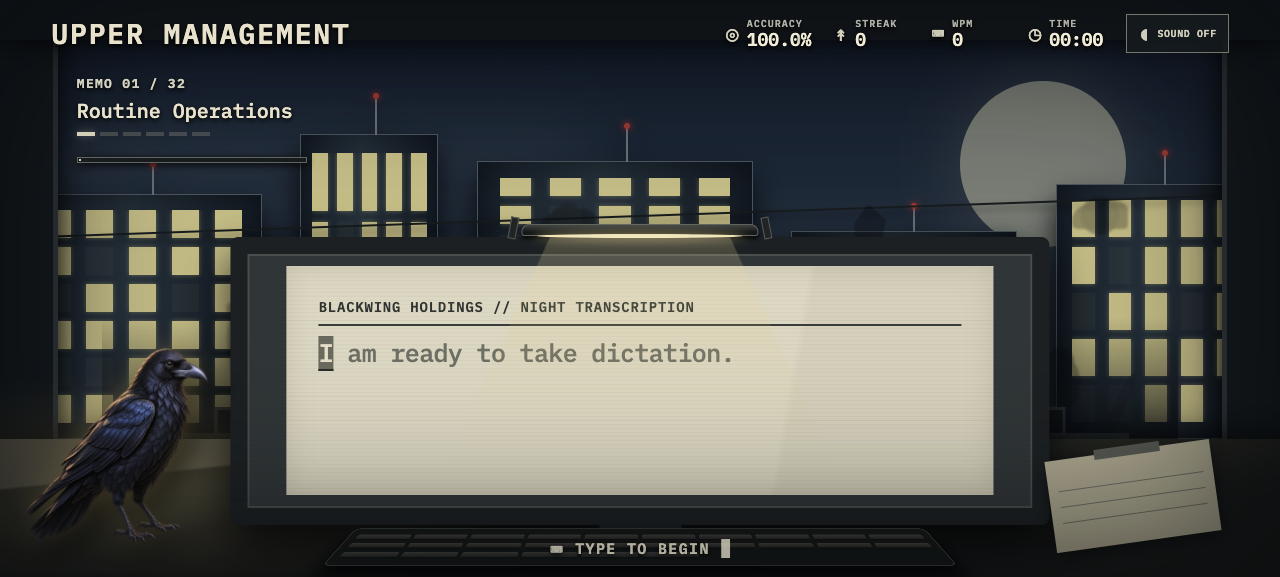
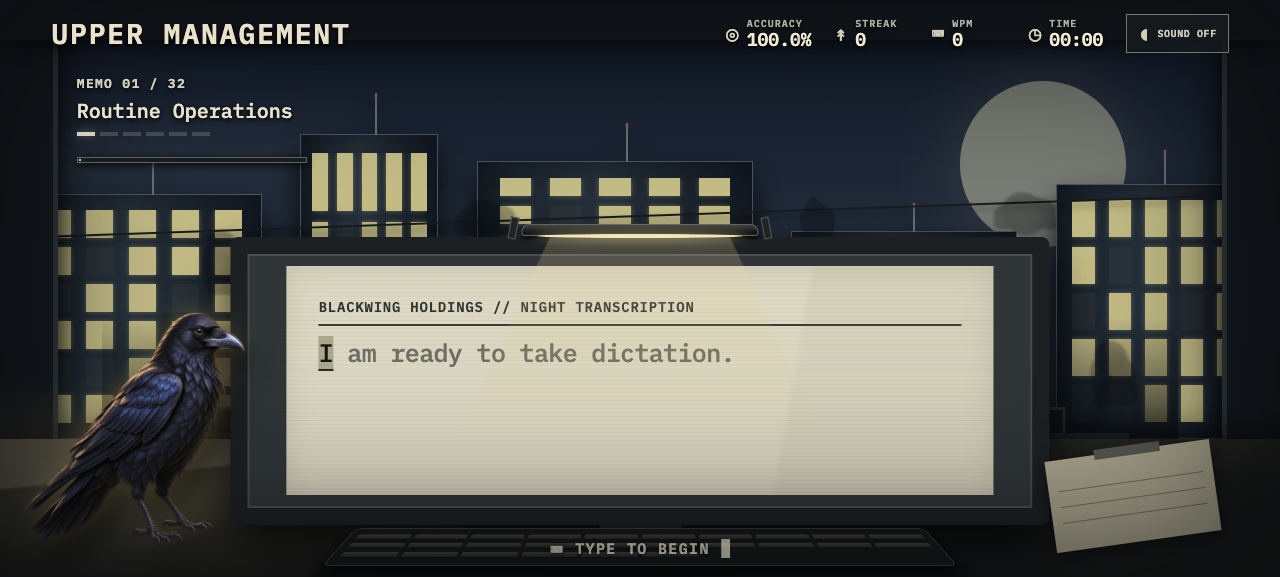
Enlarge junior supervisor twenty percent

diff --git a/typing/src/styles.css b/typing/src/styles.css
@@ -137,7 +137,7 @@ button { font: inherit; }
 .keyboard i { min-width: 8px; background: linear-gradient(#454640, #292a28); border-radius: 2px; border-bottom: 2px solid #101110; }
 .clipboard { position: absolute; z-index: 2; right: 5%; bottom: 6%; width: 13vw; min-width: 110px; height: 16vh; padding: 16px 10px; background: #aaa58d; transform: rotate(-8deg); box-shadow: 0 5px 17px #0008; }
 .clipboard::before { content: ''; position: absolute; width: 40%; height: 10px; left: 30%; top: -5px; background: #555751; }.clipboard i { display: block; height: 1px; margin-top: 15px; background: #6e6d61; }
-.supervisor-perch { position: absolute; z-index: 4; left: 1.5%; bottom: 5%; width: clamp(145px, 16vw, 215px); transition: transform .5s; filter: drop-shadow(8px 14px 12px #000b); }
+.supervisor-perch { position: absolute; z-index: 4; left: 1.5%; bottom: 5%; width: clamp(174px, 19.2vw, 258px); transition: transform .5s; filter: drop-shadow(8px 14px 12px #000b); }
 .supervisor { display: block; width: 100%; height: auto; transform-origin: bottom; transition: filter .25s, transform .25s; animation: ravenBreathe 3s ease-in-out infinite; }
 .supervisor-image { filter: brightness(1.12) drop-shadow(0 0 13px #e8ce7852); }
 .supervisor-image.watchful { filter: brightness(1.17) contrast(1.06) drop-shadow(0 0 16px #e8ce7866); }
@@ -189,13 +189,13 @@ button { font: inherit; }
   .hud { padding: 9px 12px; }.brand-block h1 { display: none; }.metrics { width: 100%; justify-content: space-between; gap: 5px; }.metric { min-width: 0; gap: 4px; }.metric > b { font-size: 16px; }.metric small { font-size: 8px; }.metric strong { font-size: 14px; }.audio-toggle { padding: 7px; }.audio-toggle span { display: none; }.audio-toggle b { font-size: 17px; }
   .stage-label { top: 9%; left: 14px; }
   .monitor { width: 92vw; height: 51vh; bottom: 15%; }.memo-card { inset: 3%; padding: 17px; }.memo-header { font-size: clamp(11px, 3vw, 14px); }.memo-text { font-size: clamp(20px, 5vw, 25px); line-height: 1.34; }
-  .supervisor-perch { left: -1%; bottom: 3%; width: 125px; }.clipboard { display: none; }.keyboard { width: 74vw; bottom: 3%; }
+  .supervisor-perch { left: -1%; bottom: 3%; width: 150px; }.clipboard { display: none; }.keyboard { width: 74vw; bottom: 3%; }
   .skyline { left: -20%; right: -20%; }.rear-office { display: none; }.window-raven-wrap { right: 0; top: 14%; transform: scale(.7) translateX(100px); }.stage-3 .window-raven-wrap, .stage-4 .window-raven-wrap, .stage-5 .window-raven-wrap, .stage-6 .window-raven-wrap { transform: scale(.7); }
   .shift-progress { left: 14px; right: 14px; width: auto; top: 58px; }.stage-label { top: 12%; }.game-feedback { top: 17%; max-width: 92vw; overflow: hidden; text-overflow: ellipsis; font-size: 9px; }
 }
 
 @media (max-height: 650px) and (min-width: 761px) {
-  .monitor { height: 50vh; bottom: 9%; }.memo-rule { margin-bottom: 10px; }.supervisor-perch { width: 190px; }.stage-label { top: 13%; }.shift-progress { top: calc(13% + 82px); }
+  .monitor { height: 50vh; bottom: 9%; }.memo-rule { margin-bottom: 10px; }.supervisor-perch { width: 228px; }.stage-label { top: 13%; }.shift-progress { top: calc(13% + 82px); }
 }
 
 @media (prefers-reduced-motion: reduce) {
